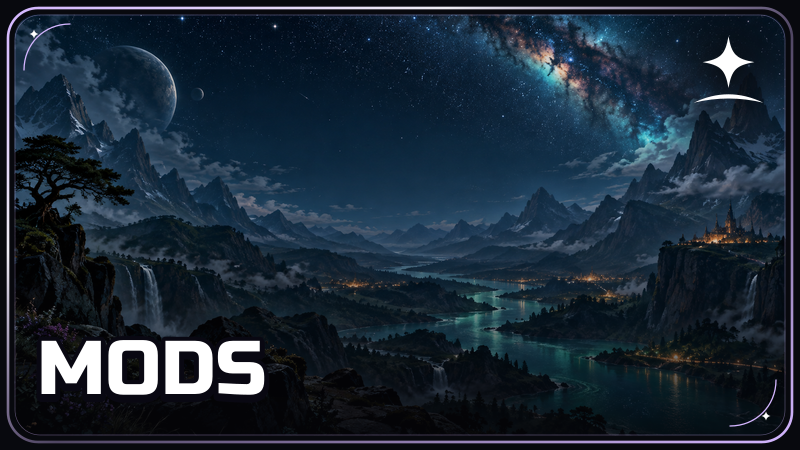
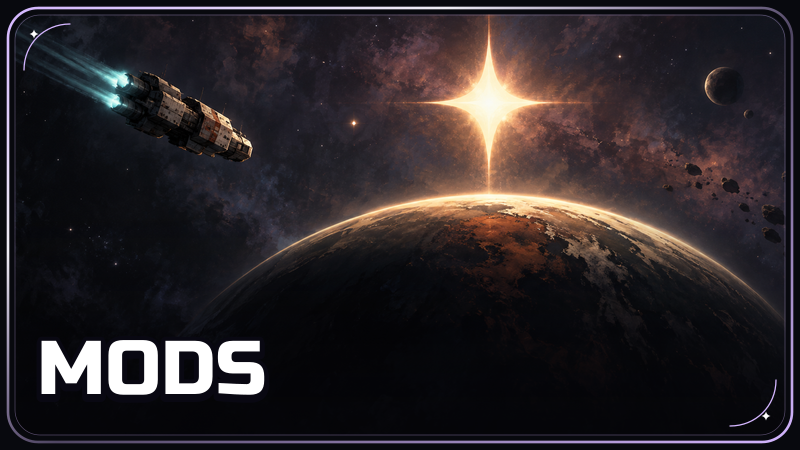
Release translation licenses 1.0.1 and shared cosmic collection artwork

diff --git a/assets/SOURCES.md b/assets/SOURCES.md
@@ -1,6 +1,6 @@
 # Artwork sources
 
-The Star Sky Mods mark preserves the geometry of the original Starboard logo. The white-on-black version inverts its original colours. Star Sky Mods’ rounded frames, version ribbons, section headers and typography are composed with vector tools. The collection cover backgrounds are ImageGen artwork created for these collections; other brand backgrounds remain vector compositions.
+The standalone Star Sky Mods mark preserves the geometry of the original Starboard logo. The white-on-black version inverts its original colours. Star Sky Mods’ rounded frames, version ribbons, section headers and typography are composed with vector tools. The collection cover backgrounds are ImageGen artwork created for these collections; other brand backgrounds remain vector compositions.
 
 The three ISEKAI covers use frame 0 of the **800 × 450** [original artwork](https://images.steamusercontent.com/ugc/12230229214356412021/59AE4D6DDC7C4D2DF10F81734F88B4BB70BF7631/) from [ISEKAI RPG LEVELING](https://steamcommunity.com/sharedfiles/filedetails/?id=3657580708), by **POUPUN**. The source GIF contains 63 frames. Our covers add titles and a frame to the original artwork.
 
@@ -22,6 +22,11 @@ Typography is rendered from **Russo One**, distributed under the [SIL Open Font 
 
 Original artwork, game imagery and trademarks retain their owners’ rights.
 
[1 lines of base64/hex data omitted]
+## Collection covers
+
+The Mods and Russian Translations covers share a single Star Sky Mods composition: an illuminated planetary crescent, a four-point star and an approaching ship. Mods uses a warm planet; Russian Translations preserves the same composition with a cool planet, city lights and communication antennae. Future category variants retain these main elements and their placement, changing the palette and thematic details. The scene itself carries the brand motif, so collection covers do not add a separate corner logo. The standalone deterministic logo remains in use on other assets.
+
[1 lines of base64/hex data omitted]
+
 
 Portions of the materials used to create this content/mod are trademarks and/or copyrighted works of Ludeon Studios Inc. All rights reserved by Ludeon. This content/mod is not official and is not endorsed by Ludeon.
